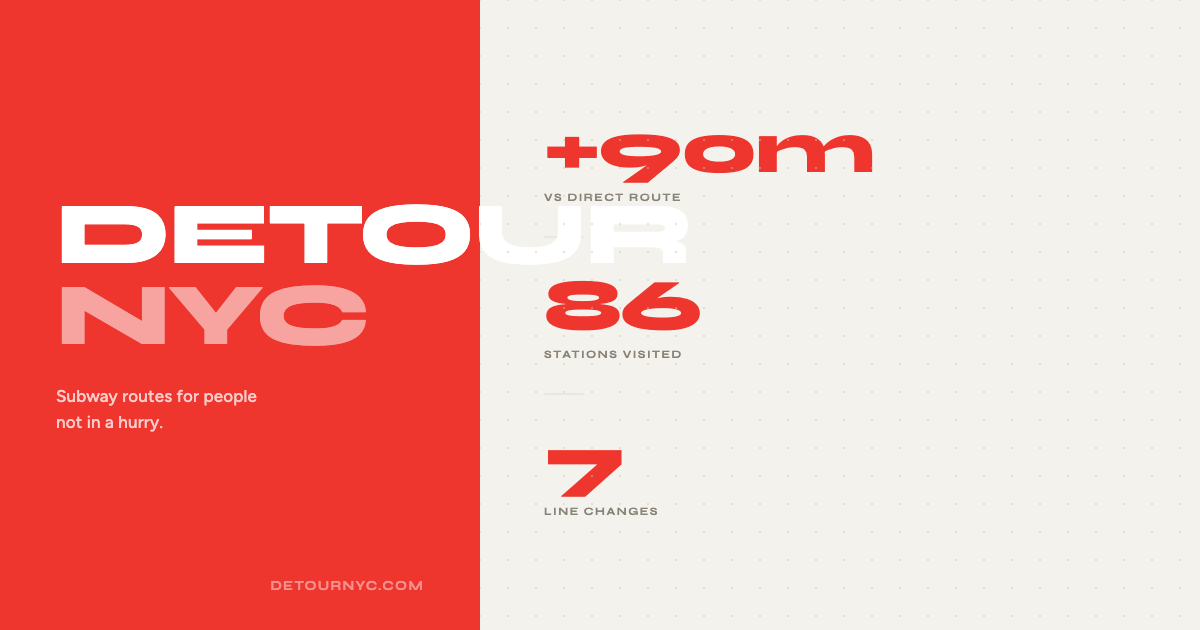
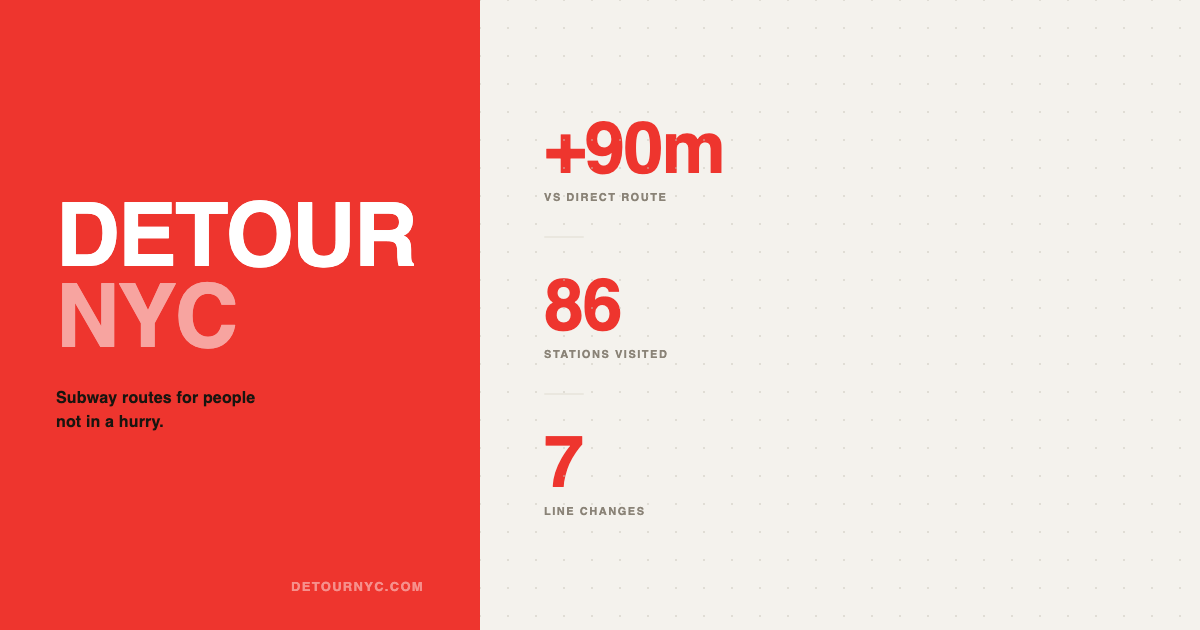
Make OG card tagline black and bold
Was white 75% opacity on red — hard to read at preview card size.
Switched to #18150F Syne 700 so the tagline reads clearly as the
app's identity line.

diff --git a/og-card.html b/og-card.html
@@ -43,10 +43,10 @@
 
   .tagline {
     margin-top: 28px;
-    font-family: 'Figtree', sans-serif;
-    font-size: 17px;
-    font-weight: 500;
-    color: rgba(255,255,255,0.75);
+    font-family: 'Syne', sans-serif;
+    font-size: 16px;
+    font-weight: 700;
+    color: #18150F;
     line-height: 1.5;
     letter-spacing: 0.01em;
   }